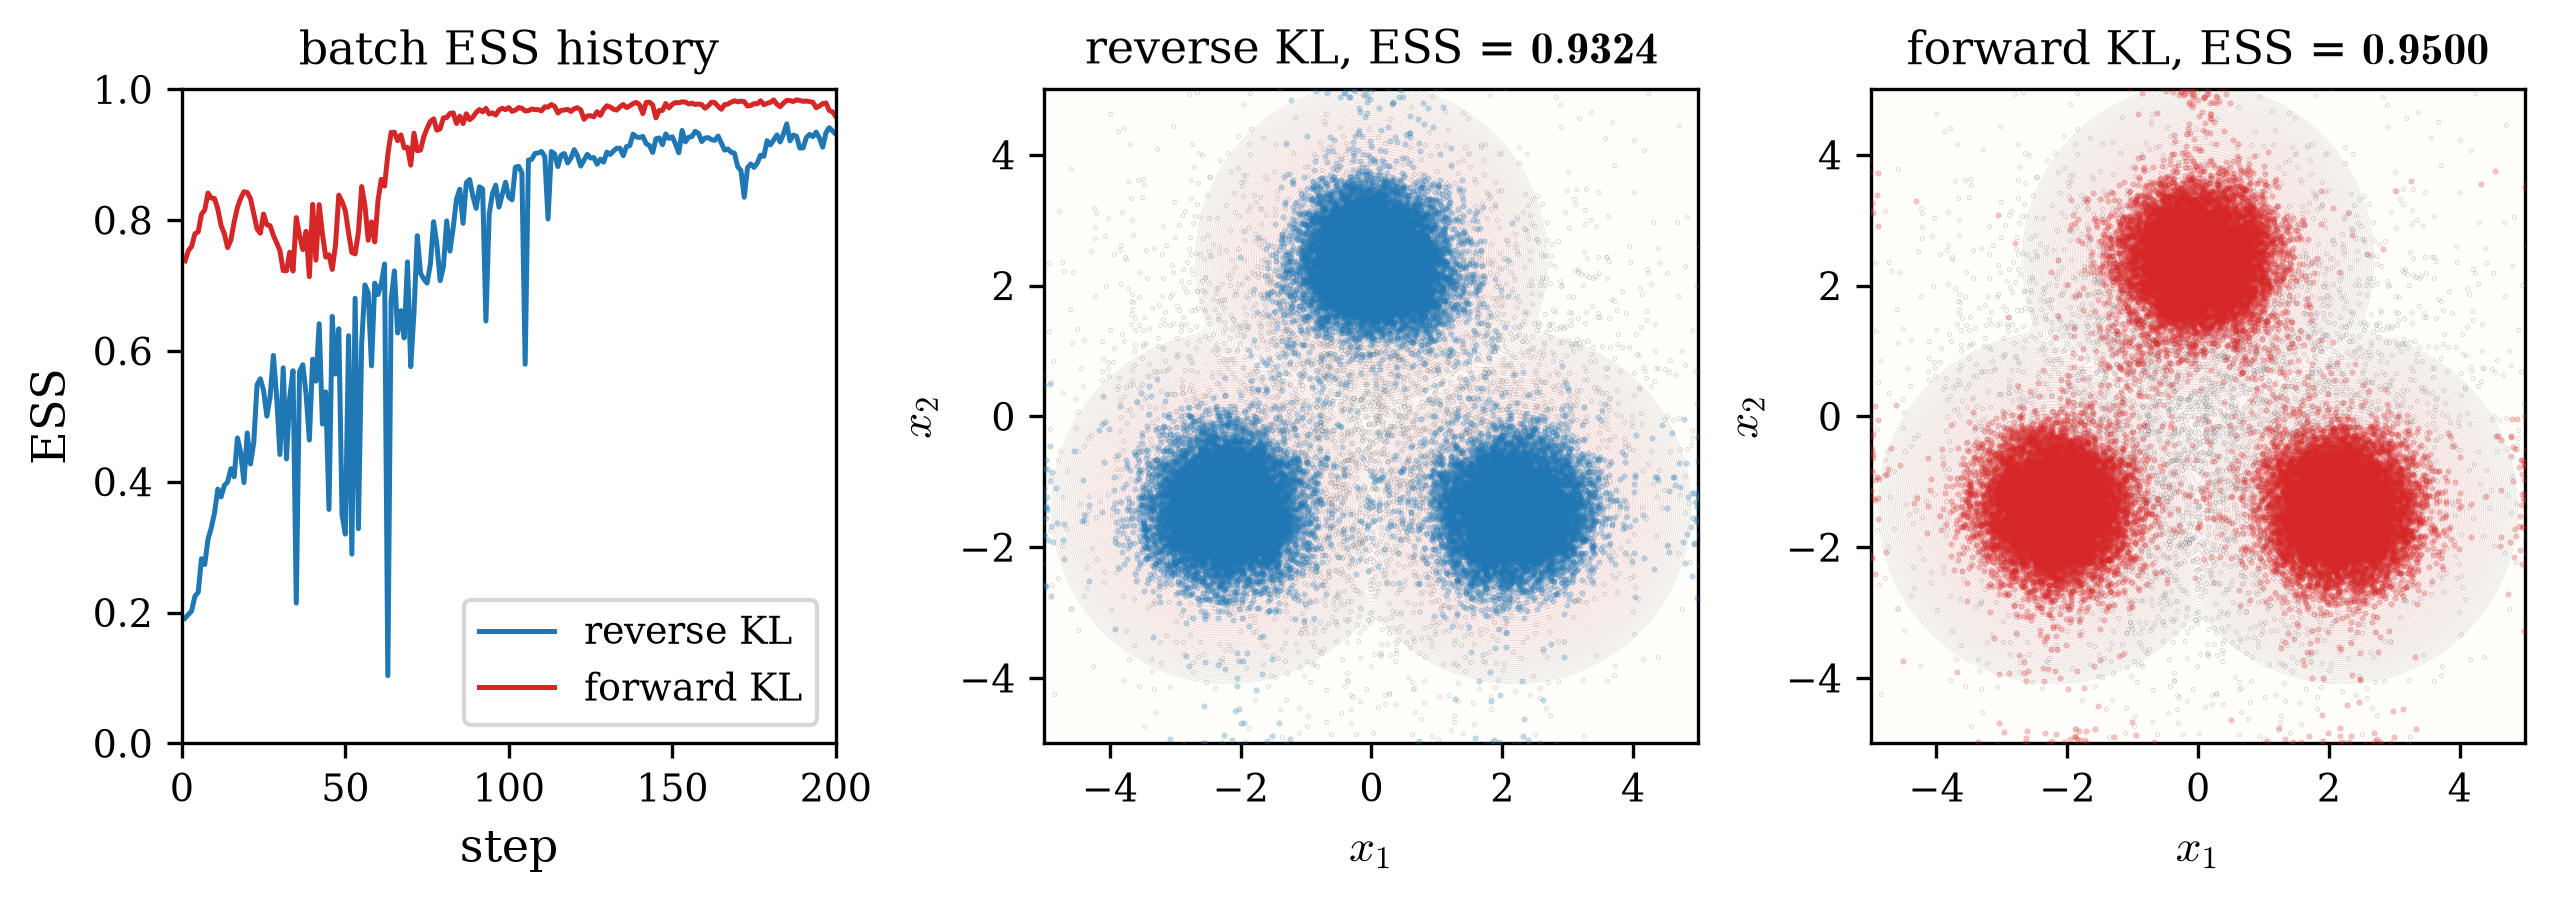
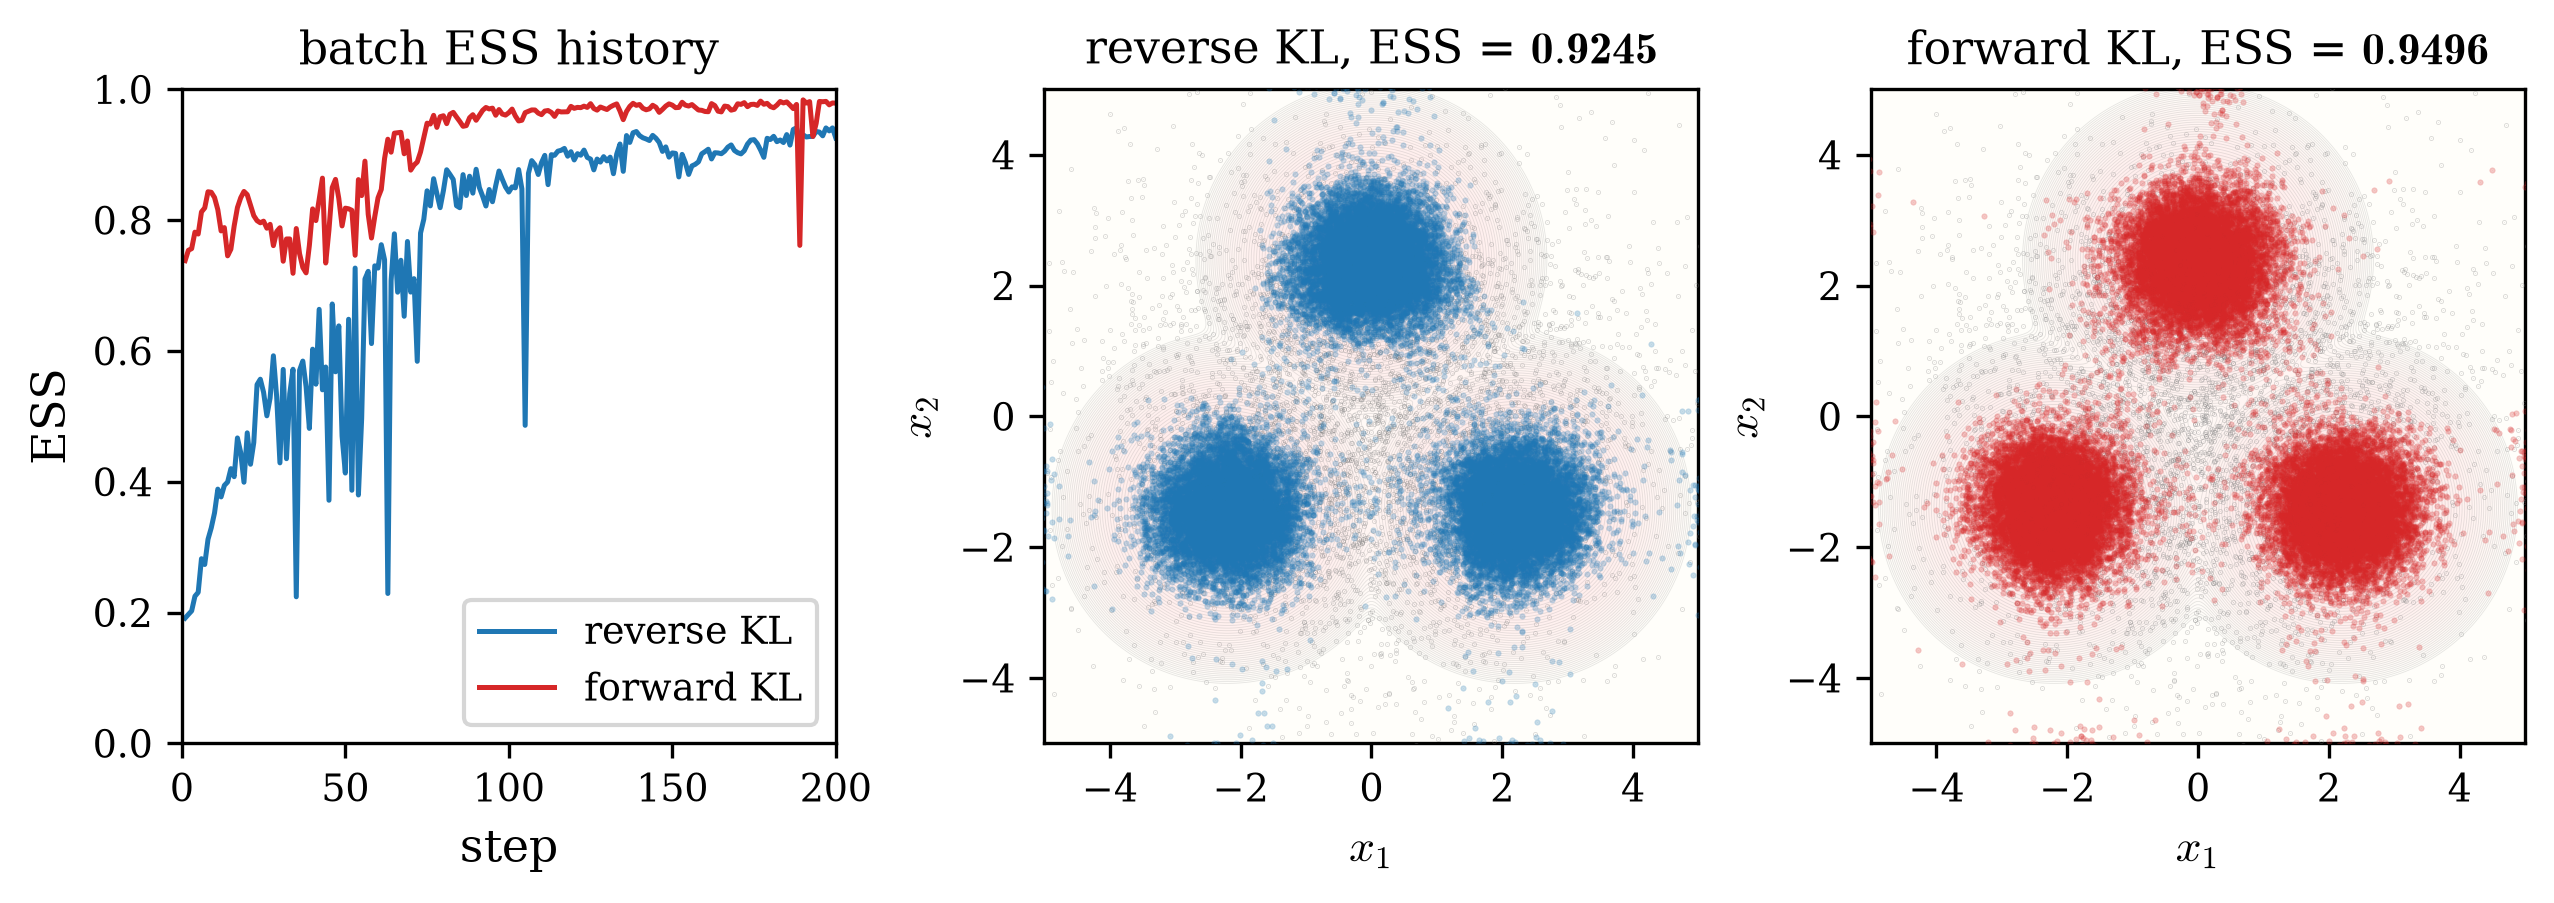
MALA by default: flip all adjust/mc_adjust defaults to True; redo tests
- rejuvenation / annealing / train: langevin(_step), sequential_monte_carlo,
  annealed_importance_sampling, and the four train_* / boltzmann_* drivers now
  default adjust/mc_adjust=True (MALA); docstrings + comments updated (ULA is
  the opt-in via adjust=False)
- train_forward_KL gains mc_adjust (threaded into its AIS); boltzmann_forward_KL
  threads it through (main interface before monitor)
- examples: drop the standalone MC_ADJUST=True (3D_periodic, 4D_boltzmann) now
  that MALA is the default
- results.md: 2D/3D/4D reran with MALA (numbers within run-to-run noise);
  figures regenerated
- smoke: test_rejuvenation / test_annealing pass adjust=False on the tamed
  (ULA-only) paths; AIS moment tolerance widened (MALA mixes modes slower);
  full 12-test suite green
- README: note MALA is the default in the annealed-BG section

diff --git a/jflows/utils/annealing.py b/jflows/utils/annealing.py
@@ -46,6 +46,7 @@ def sequential_monte_carlo(
     ladder: int = 1,
     step: float = 1e-3,
     iters: int = 100,
+    adjust: bool = True,
     taming: float = 0,
     chunk: int = 1,
 ) -> tuple[Array, Array]:
@@ -68,7 +69,7 @@ def sequential_monte_carlo(
              log w(x) = u_{k-1}(x) - u_k(x) = (1/M) * (source(x) - target(x)),
          exponentiated after subtracting the max for numerical stability.
       2. Multinomial resampling of x by w.
-      3. Langevin (ULA) rejuvenation targeting exp(-u_k) — i.e. ON THE
+      3. Langevin rejuvenation targeting exp(-u_k) — i.e. ON THE
          BRIDGE POTENTIAL u_k itself — for `iters` steps, with the tamed
          drift when `taming > 0`.
     After the final rung the particles approximate exp(-target).
@@ -88,8 +89,10 @@ def sequential_monte_carlo(
                                 single reweight + resample + Langevin hop
                                 straight from source to target; larger M
                                 bridges low-overlap source/target pairs.
-        step:    float          Langevin (ULA) step size, shared across rungs
+        step:    float          Langevin step size, shared across rungs
         iters:   int            Langevin steps per rung
+        adjust:  bool           if True, MALA rejuvenation on each bridge
+                                (unbiased); if False, ULA (see `langevin`)
         taming:  float          if > 0, tamed Langevin drift
                                 grad u_k / (1 + taming * ||grad u_k||) —
                                 stabilizes the rejuvenation on potentials
@@ -121,7 +124,7 @@ def sequential_monte_carlo(
         #     ON the bridge u_k to obtain fresh samples ~ exp(-u_k).
         key_r, key_l = jax.random.split(jax.random.fold_in(key, k))
         x = resample(key_r, x, w)
-        x = langevin(key_l, x, u_k, step=step, iters=iters, taming=taming, chunk=chunk)
+        x = langevin(key_l, x, u_k, step=step, iters=iters, adjust=adjust, taming=taming, chunk=chunk)
     return x, jnp.stack(ess)
 
 
@@ -139,6 +142,7 @@ def annealed_importance_sampling(
     ladder: int = 1,
     step: float = 1e-3,
     iters: int = 100,
+    adjust: bool = True,
     taming: float = 0,
     chunk: int = 1,
 ) -> Array:
@@ -196,8 +200,10 @@ def annealed_importance_sampling(
         ladder:    int               number of annealing rungs M (>= 1). M=1 is
                                      a single reweight + resample + Langevin hop
                                      from the flow proposal to the target.
-        step:      float             Langevin (ULA) step size, shared across rungs
+        step:      float             Langevin step size, shared across rungs
         iters:     int               Langevin steps per rung
+        adjust:    bool              if True, MALA rejuvenation in mu_1
+                                     (unbiased); if False, ULA (see `langevin`)
         taming:    float             if > 0, tamed Langevin drift on the target
                                      (see `langevin`)
         chunk:     int               split along dim 0 into this many chunks for
@@ -235,7 +241,7 @@ def annealed_importance_sampling(
         # (2) resample onto high-weight particles, then rejuvenate in mu_1.
         key_r, key_l = jax.random.split(jax.random.fold_in(key, k))
         y = resample(key_r, y, w)
-        y = langevin(key_l, y, target, step=step, iters=iters, taming=taming, chunk=chunk)
+        y = langevin(key_l, y, target, step=step, iters=iters, adjust=adjust, taming=taming, chunk=chunk)
     return y
 
 

diff --git a/jflows/train.py b/jflows/train.py
@@ -107,7 +107,7 @@ def train_reverse_KL(
     lr: float,
     mc_step: float,
     mc_iters: int,
-    mc_adjust: bool = False,
+    mc_adjust: bool = True,
     monitor: Monitor | None = None,
     seed: int | Array = 0,
     checkpoint: bool = False,
@@ -215,6 +215,7 @@ def train_forward_KL(
     ladder: int,
     mc_step: float,
     mc_iters: int,
+    mc_adjust: bool = True,
     monitor: Monitor | None = None,
     seed: int | Array = 0,
     checkpoint: bool = False,
@@ -256,6 +257,9 @@ def train_forward_KL(
         ladder:   int            AIS rungs per manufactured batch
         mc_step:  float          Langevin rejuvenation step size
         mc_iters: int            Langevin rejuvenation steps per rung
+        mc_adjust: bool          False: unadjusted ULA in the AIS
+                                 rejuvenation; True: MALA (the Metropolis
+                                 gate for near-singular targets)
         monitor:  Monitor        optional live status reporter (step, loss,
                                  batch ESS every `monitor.every` steps)
         seed:     int | Array    extra fold into the internal PRNG stream
@@ -281,7 +285,7 @@ def train_forward_KL(
         x = x_valid[jax.random.choice(key_idx, N, (n_batch,), replace=False)]
         y = annealed_importance_sampling(
             key_ais, x, source, target, eqx.combine(params, static), type,
-            ladder=ladder, step=mc_step, iters=mc_iters,
+            ladder=ladder, step=mc_step, iters=mc_iters, adjust=mc_adjust,
         )
 
         def loss_fn(p):
@@ -350,7 +354,7 @@ def boltzmann_reverse_KL(
     ladder: int,
     mc_step: float,
     mc_iters: int,
-    mc_adjust: bool = False,
+    mc_adjust: bool = True,
     monitor: Monitor | None = None,
     bg_param: dict | None = None,
     chunk: int = 1,
@@ -562,7 +566,7 @@ def boltzmann_forward_KL(
     ladder: int,
     mc_step: float,
     mc_iters: int,
-    mc_adjust: bool = False,
+    mc_adjust: bool = True,
     monitor: Monitor | None = None,
     bg_param: dict | None = None,
     chunk: int = 1,
@@ -608,9 +612,9 @@ def boltzmann_forward_KL(
     ladder uses its own base PRNG stream and threads a distinct seed
     into the trainer per stage attempt.
 
-    Input:  as `boltzmann_reverse_KL`, with `mc_adjust` applying to the
-            particle-set advance (the stage trainer's internal AIS
-            rejuvenation is unadjusted Langevin).
+    Input:  as `boltzmann_reverse_KL`, with `mc_adjust` applying to both
+            the stage trainer's internal AIS rejuvenation and the
+            particle-set advance.
     Output: as `boltzmann_reverse_KL` — (y_valid, stages) with per-stage
             records {"t", "ess", "flow"}.
     """
@@ -663,7 +667,7 @@ def boltzmann_forward_KL(
             seed = jnp.uint32(k * p["max_retry"] + attempt)  # fresh stream per attempt
             cand, _ = train_forward_KL(y_valid, u_prev, u_k, flow, type,
                                        n_batch, steps, lr, ladder, mc_step,
-                                       mc_iters, monitor,
+                                       mc_iters, mc_adjust, monitor,
                                        seed=seed, checkpoint=checkpoint)
             log_w = _iw_log_jit(y_valid, u_prev, u_k, cand, type, chunk=chunk)
             ess_k = float(compute_ESS_log(log_w))

diff --git a/smoke/test_annealing.py b/smoke/test_annealing.py
@@ -132,7 +132,7 @@ def main() -> None:
     # ── 3. taming pass-through (mild taming: active only on outlier drifts) ──
     log("taming pass-through")
     x_tamed, ess_t = sequential_monte_carlo(jax.random.key(2), x0, SOURCE, TARGET,
-                                            ladder=16, step=0.05, iters=300, taming=0.05)
+                                            ladder=16, step=0.05, iters=300, taming=0.05, adjust=False)
     check_true("finite", bool(jnp.isfinite(x_tamed).all()))
     # taming caps the drift, biasing the finite-step chain -> wider mean tolerance
     check_target_match("tamed moments & proportions", x_tamed, m_tol=0.2)
@@ -142,7 +142,9 @@ def main() -> None:
     flow_id = RealNVP(jax.random.key(5), dimension=2, transforms=2).zeros()
     y = annealed_importance_sampling(jax.random.key(6), x0, SOURCE, TARGET, flow_id, type="F",
                                      ladder=10, step=0.05, iters=150)
-    check_target_match("AIS (type=F) moments & mode proportions", y)
+    # MALA (the default) crosses modes more slowly than ULA, so mode weights
+    # equilibrate less at this budget -> wider mean tolerance
+    check_target_match("AIS (type=F) moments & mode proportions", y, m_tol=0.25)
     y_g = annealed_importance_sampling(jax.random.key(6), x0, SOURCE, TARGET, flow_id, type="G",
                                      ladder=10, step=0.05, iters=150)
     check("F/G agree for the identity flow (same key)", y_g, y, tol=1e-10)

diff --git a/example/3D_periodic.py b/example/3D_periodic.py
@@ -68,7 +68,6 @@ MONITOR_EVERY: int = 20  # print loss + batch ESS every MONITOR_EVERY steps
 LADDER: int = 1        # AIS rungs of the forward KL data manufacturing
 MC_STEP: float = 1e-3  # Langevin step size
 MC_ITERS: int = 100    # Langevin steps
-MC_ADJUST: bool = True # MALA for the post-resample rejuvenation at the target
 
 # figure
 N_PLOT: int = 10000    # subsample for a less crowded 3D scatter
@@ -116,7 +115,7 @@ def main() -> None:
     open(LOG, "w").close()   # fresh log per run (no appending)
     log(f"START 3D_periodic | jax {jax.__version__} | backend {jax.default_backend()} | "
         f"N_VALID={N_VALID} N_BATCH={N_BATCH} STEPS={STEPS} LR={LR} "
-        f"MC={MC_STEP}x{MC_ITERS} adjust={MC_ADJUST} kappa={KAPPA}")
+        f"MC={MC_STEP}x{MC_ITERS} kappa={KAPPA}")
     x_valid = u0.samples(jax.random.key(2), N_VALID)  # the fixed N_VALID source set
 
     results = {}
@@ -143,8 +142,7 @@ def main() -> None:
         log(f"[{name}] final ESS = {ess:.4f}   (N_VALID = {N_VALID})")
         key_res, key_mc = jax.random.split(jax.random.key(10 + row))
         y = resample(key_res, y, jnp.exp(log_w - log_w.max()))
-        y = langevin(key_mc, y, u1, step=MC_STEP, iters=MC_ITERS,
-                     adjust=MC_ADJUST, chunk=4)
+        y = langevin(key_mc, y, u1, step=MC_STEP, iters=MC_ITERS, chunk=4)
         log(f"[{name}] particle set resampled + rejuvenated at the target")
         results[name] = (y, ess)
 

diff --git a/jflows/utils/rejuvenation.py b/jflows/utils/rejuvenation.py
@@ -49,7 +49,7 @@ def langevin_step(
     x: Array,
     potential: Potential,
     step: float = 1e-3,
-    adjust: bool = False,
+    adjust: bool = True,
     taming: float = 0,
 ) -> tuple[Array, dict]:
     """
@@ -112,7 +112,7 @@ def langevin(
     potential: Potential,
     step: float = 1e-3,
     iters: int = 100,
-    adjust: bool = False,
+    adjust: bool = True,
     taming: float = 0,
     chunk: int = 1,
 ) -> Array:
@@ -122,10 +122,10 @@ def langevin(
     MALA / tamed-drift semantics, and the module docstring for the exact
     key derivation that makes the loop reproducible from the steps).
 
-    With adjust=False (default), the unadjusted Langevin algorithm (ULA):
-    O(step) bias, one gradient call per iteration. With adjust=True, the
-    standard MALA scheme whose stationary distribution is *exactly*
-    exp(-U) at ~2x the cost (two gradient calls per iteration).
+    With adjust=True (default), the standard MALA scheme whose stationary
+    distribution is *exactly* exp(-U) at ~2x the cost (two gradient calls
+    per iteration). With adjust=False, the unadjusted Langevin algorithm
+    (ULA): O(step) bias, one gradient call per iteration.
 
     Exposed both as `langevin` and as the `rejuvenation` alias (in SMC
     literature, Langevin steps are the standard rejuvenation move).

diff --git a/example/4D_boltzmann.py b/example/4D_boltzmann.py
@@ -76,8 +76,7 @@ MONITOR_EVERY: int = 20  # print loss + batch ESS every MONITOR_EVERY steps
 # Langevin rejuvenation (training batches + the per-stage particle refresh)
 LADDER: int = 1        # SMC rungs of the tau_smc selection gate
 MC_STEP: float = 1e-3  # Langevin rejuvenation step size
-MC_ITERS: int = 100    # Langevin rejuvenation steps
-MC_ADJUST: bool = True # MALA (rejects Coulomb-wall proposals; keeps the set collision-free)
+MC_ITERS: int = 100    # Langevin rejuvenation steps (MALA default: rejects Coulomb-wall proposals)
 
 # adaptive ladder (bg_param of boltzmann_reverse_KL)
 BG_PARAM = {
@@ -147,7 +146,7 @@ def main() -> None:
         y, stages = driver(
             x_valid, u0, u1, new_flow(key_f), type=tp,
             n_batch=N_BATCH, steps=STEPS, lr=LR, ladder=LADDER,
-            mc_step=MC_STEP, mc_iters=MC_ITERS, mc_adjust=MC_ADJUST,
+            mc_step=MC_STEP, mc_iters=MC_ITERS,
             monitor=Monitor(MONITOR_EVERY, f"[{name}] ", log), bg_param=BG_PARAM,
         )
         ts = [s["t"] for s in stages]

diff --git a/smoke/test_rejuvenation.py b/smoke/test_rejuvenation.py
@@ -137,8 +137,8 @@ def main() -> None:
     log("tamed drift")
     quartic = potential_from(lambda x: 0.25 * ((x**2).sum(-1)) ** 2)
     x_far = jnp.full((32, 2), 10.0)
-    x_plain = langevin(jax.random.key(8), x_far, quartic, step=0.1, iters=200)
-    x_tamed = langevin(jax.random.key(8), x_far, quartic, step=0.1, iters=200, taming=1.0)
+    x_plain = langevin(jax.random.key(8), x_far, quartic, step=0.1, iters=200, adjust=False)
+    x_tamed = langevin(jax.random.key(8), x_far, quartic, step=0.1, iters=200, taming=1.0, adjust=False)
     check_true("untamed ULA diverges (demonstrates the hazard)",
                not bool(jnp.isfinite(x_plain).all()))
     check_true("tamed ULA stays finite", bool(jnp.isfinite(x_tamed).all()),

diff --git a/example/results.md b/example/results.md
@@ -21,8 +21,8 @@ Both trainers regenerate their batch inside every Adam step. The reverse KL flow
 
 | objective  | final ESS ($N = 40000$) | batch ESS along training |
 | :--------: | :---------------------: | :----------------------: |
-| reverse KL |         0.9324          |   0.19 -> 0.83 -> 0.93   |
-| forward KL |         0.9500          |   0.74 -> 0.97 -> 0.96   |
+| reverse KL |         0.9245          |   0.19 -> 0.85 -> 0.93   |
+| forward KL |         0.9496          |   0.74 -> 0.97 -> 0.98   |
 
 </div>
 
@@ -54,8 +54,8 @@ Run by [`3D_periodic.py`](3D_periodic.py): its purpose is to show that the **NCS
 
 | objective  | final ESS ($N = 40000$) |
 | :--------: | :---------------------: |
-| reverse KL |         0.8335          |
-| forward KL |         0.9074          |
+| reverse KL |         0.8392          |
+| forward KL |         0.9090          |
 
 </div>
 
@@ -85,7 +85,7 @@ Both ladders reach $t = 1$ in four stages (~8-10 s each on the full 120000-parti
 | reverse KL, stage $k$ |   1   |   2   |   3   |   4   |
 | :-------------------: | :---: | :---: | :---: | :---: |
 |         $t_k$         | 0.14  | 0.35  | 0.665 |  1.0  |
-|          ESS          | 0.657 | 0.904 | 0.957 | 0.984 |
+|          ESS          | 0.620 | 0.894 | 0.954 | 0.985 |
 
 </div>
 
@@ -94,7 +94,7 @@ Both ladders reach $t = 1$ in four stages (~8-10 s each on the full 120000-parti
 | forward KL, stage $k$ |   1   |   2   |   3   |   4   |
 | :-------------------: | :---: | :---: | :---: | :---: |
 |         $t_k$         | 0.20  | 0.50  | 0.95  |  1.0  |
-|          ESS          | 0.764 | 0.898 | 0.963 | 0.987 |
+|          ESS          | 0.764 | 0.899 | 0.963 | 0.987 |
 
 </div>
 

diff --git a/README.md b/README.md
@@ -134,7 +134,7 @@ ADAPTIVE coefficient: the stage flows are connected step by step — each stage
 trains the warm-started flow as the incremental map $\mu_{t_{k-1}} \to \mu_{t_k}$
 on the advancing particle set, accepts on the incremental importance-sampling
 ESS (rejected stages shrink $t_k$ and retry with fresh randomness), and
-advances the set by reweight → resample → Langevin at $U_{t_k}$ (MALA when `mc_adjust=True`):
+advances the set by reweight → resample → Langevin at $U_{t_k}$ (MALA by default; `mc_adjust=False` for plain ULA):
 
 ```python
 from jflows.train import boltzmann_reverse_KL
